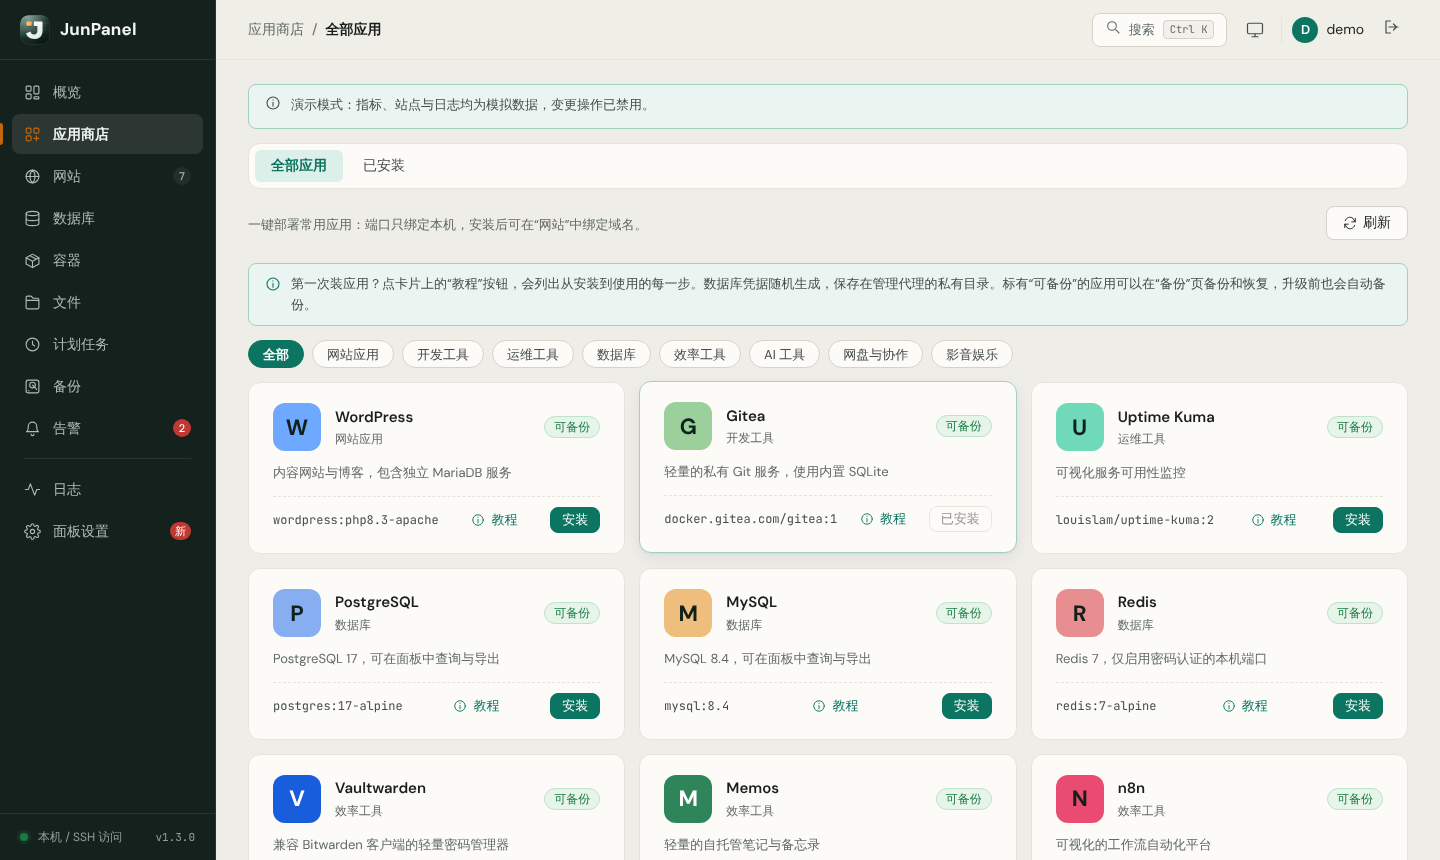
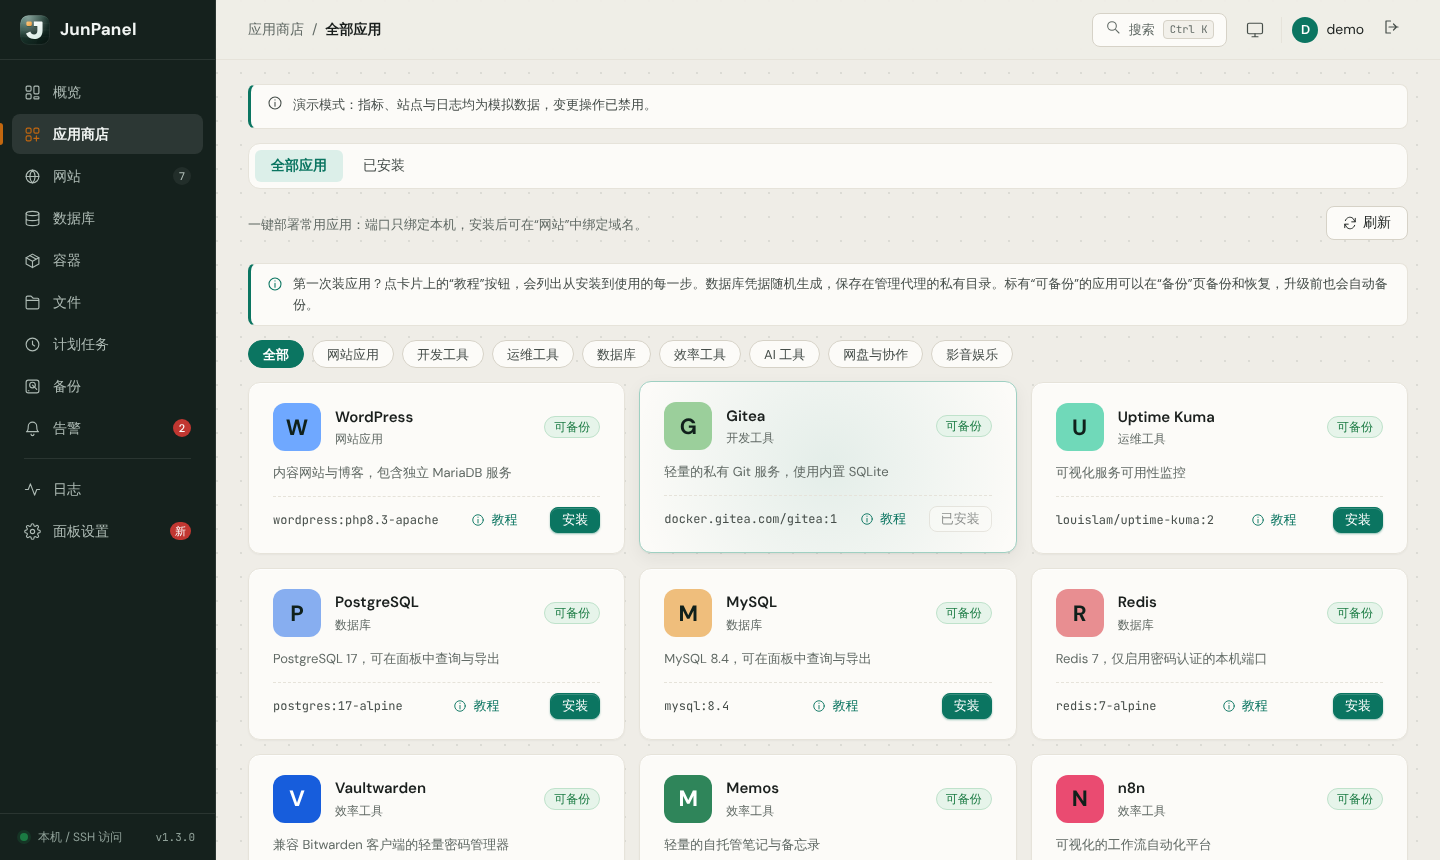
Panel design round 2: status band, hoverable charts, pointer light, editorial headings
Claude-Session: https://claude.ai/code/session_01TVKeKoCaGjGZwaa46WfNFp

Changed region(s): [[0.1875, 0.3023, 0.9688, 0.3628], [0.1875, 0.0907, 0.4688, 0.1512]]

diff --git a/web/app.js b/web/app.js
@@ -173,6 +173,8 @@ function applyTheme(mode = themeMode) {
 applyTheme();
 requestAnimationFrame(() => requestAnimationFrame(() => { document.documentElement.dataset.ready = '1'; }));
 systemDark.addEventListener('change', () => { if (themeMode === 'auto') applyTheme(); });
+// A soft light follows the pointer across cards (position only; the look is in the stylesheet).
+document.addEventListener('pointermove', e => { const t = e.target.closest?.('.panel, .app-card, .installed-card, .hero'); if (!t) return; const r = t.getBoundingClientRect(); t.style.setProperty('--mx', `${Math.round(e.clientX - r.left)}px`); t.style.setProperty('--my', `${Math.round(e.clientY - r.top)}px`); }, { passive: true });
 $('#theme-toggle').onclick = () => { const next = themeModes[(themeModes.indexOf(themeMode) + 1) % themeModes.length]; applyTheme(next); try { localStorage.setItem('junpanel-theme', next); } catch {} toast(`主题：${themeNames[next]}`); };
 $$('#nav [data-route]').forEach(b => b.onclick = () => navigate(b.dataset.route));
 window.addEventListener('hashchange', () => { const r = location.hash.slice(1).split('?')[0]; if (state.csrf && r !== state.route) navigate(r); });
@@ -189,7 +191,7 @@ function drawChrome() {
   $$('#nav .nav-link').forEach(n => { const active = n.dataset.group === group; n.classList.toggle('active', active); if (active) n.setAttribute('aria-current', 'page'); else n.removeAttribute('aria-current'); });
   const sub = $('#subnav'); sub.hidden = siblings.length < 2;
   sub.replaceChildren(...siblings.map(s => { const b = el('button', `subnav-item${s === state.route ? ' active' : ''}`, routes[s][0]); b.type = 'button'; b.onclick = () => navigate(s); return b; }));
-  $('#page-title').textContent = siblings.length > 1 ? '' : label; $('#page-title').hidden = siblings.length > 1;
+  $('#page-title').textContent = siblings.length > 1 ? '' : label; $('#page-title').hidden = siblings.length > 1; $('#page-eyebrow').textContent = siblings.length > 1 ? '' : state.route;
   $('#page-description').textContent = r[1]; $('#page-bar').hidden = state.route === 'overview';
 }
 const renderers = () => ({ overview: overviewPage, apps: appsPage, installed: appsPage, sites: sitesPage, certs: certsPage, databases: databasesPage, containers: containersPage, projects: projectsPage, images: imagesPage, networks: networksPage, volumes: volumesPage, terminal: terminalPage, files: filesPage, schedules: schedulesPage, backups: backupsPage, alerts: alertsPage, jobs: jobsPage, audit: auditPage, logins: loginsPage, syslog: syslogPage, security: securityPage, access: accessPage, upgrade: upgradePage });
@@ -215,29 +217,49 @@ function meter(value) { const p = el('progress','progress'); p.max = 100; p.valu
 const cssVar = name => getComputedStyle(document.documentElement).getPropertyValue(name).trim();
 // series: [[key, label, color variable]]; max = 100 for percentages, 0 to scale to the data (bytes/s).
 function chart(history, series, max = 100, withDate = false) {
-  const canvas = el('canvas','chart'); canvas.setAttribute('aria-label',series.map(s=>s[1]).join(' / ')); canvas.setAttribute('role','img');
+  const canvas = el('canvas', 'chart'); canvas.setAttribute('aria-label', series.map(s => s[1]).join(' / ') + '，可用左右方向键查看每个时间点'); canvas.setAttribute('role', 'img'); canvas.tabIndex = 0;
+  const left = 58, right = 14, top = 30, bottom = 28, H = 240; let hover = null, geo = null;
+  const when = (s, full) => new Date(s).toLocaleString('zh-CN', { hour12: false, ...(withDate || full ? { month: '2-digit', day: '2-digit' } : {}), hour: '2-digit', minute: '2-digit', ...(full && !withDate ? { second: '2-digit' } : {}) });
+  const value = v => max ? `${Number(v).toFixed(1)}%` : `${bytes(v)}/s`;
   canvas._draw = () => {
-    const rect = canvas.getBoundingClientRect(); if (!rect.width) return; const dpr = devicePixelRatio || 1, w = rect.width, h = 220, left = 58, right = 10, top = 28, bottom = 26;
-    canvas.width = w * dpr; canvas.height = h * dpr; const ctx = canvas.getContext('2d'); ctx.scale(dpr,dpr);
-    const muted = cssVar('--muted'), grid = cssVar('--line-soft'), font = getComputedStyle(document.body).fontFamily;
-    const all = series.flatMap(([k]) => history.map(p => Number(p[k] || 0))), peak = max || Math.max(1024, ...all) * 1.2;
+    const rect = canvas.getBoundingClientRect(); if (!rect.width) return; const dpr = devicePixelRatio || 1, w = rect.width, h = H;
+    canvas.width = w * dpr; canvas.height = h * dpr; const ctx = canvas.getContext('2d'); ctx.scale(dpr, dpr);
+    const muted = cssVar('--muted'), grid = cssVar('--line-soft'), font = getComputedStyle(document.body).fontFamily, mono = cssVar('--font-mono') || 'monospace';
+    const all = series.flatMap(([k]) => history.map(p => Number(p[k] || 0))), peak = max || Math.max(1024, ...all) * 1.2, n = history.length;
     ctx.font = `12px ${font}`; ctx.textBaseline = 'middle';
-    for (let i = 0; i <= 4; i++) { const y = top + (h - top - bottom) * i / 4; ctx.strokeStyle = grid; ctx.beginPath(); ctx.moveTo(left, y); ctx.lineTo(w - right, y); ctx.stroke(); ctx.fillStyle = muted; ctx.textAlign = 'right'; ctx.fillText(max ? `${Math.round(peak * (1 - i / 4))}%` : `${bytes(peak * (1 - i / 4))}/s`, left - 8, y); }
-    let lx = left; series.forEach(([, label, color]) => { ctx.fillStyle = cssVar(color); ctx.fillRect(lx, 8, 12, 3); ctx.fillStyle = muted; ctx.textAlign = 'left'; ctx.fillText(label, lx + 18, 10); lx += ctx.measureText(label).width + 40; });
-    if (history.length < 2) { ctx.textAlign = 'center'; ctx.fillText('等待更多采样…', (left + w) / 2, h / 2); return; }
-    const time = s => withDate ? new Date(s).toLocaleString('zh-CN', { hour12: false, month: '2-digit', day: '2-digit', hour: '2-digit', minute: '2-digit' }) : new Date(s).toLocaleTimeString('zh-CN', { hour12: false, hour: '2-digit', minute: '2-digit' });
-    ctx.fillStyle = muted; ctx.textAlign = 'left'; ctx.fillText(time(history[0].at), left, h - 10); ctx.textAlign = 'right'; ctx.fillText(time(history[history.length - 1].at), w - right, h - 10);
+    for (let i = 0; i <= 4; i++) { const y = top + (h - top - bottom) * i / 4; ctx.strokeStyle = grid; ctx.setLineDash(i && i < 4 ? [2, 4] : []); ctx.beginPath(); ctx.moveTo(left, y); ctx.lineTo(w - right, y); ctx.stroke(); ctx.setLineDash([]); ctx.fillStyle = muted; ctx.textAlign = 'right'; ctx.fillText(max ? `${Math.round(peak * (1 - i / 4))}%` : `${bytes(peak * (1 - i / 4))}/s`, left - 8, y); }
+    let lx = left; series.forEach(([, label, color]) => { ctx.fillStyle = cssVar(color); ctx.beginPath(); ctx.arc(lx + 4, 10, 4, 0, 7); ctx.fill(); ctx.fillStyle = muted; ctx.textAlign = 'left'; ctx.fillText(label, lx + 14, 10); lx += ctx.measureText(label).width + 38; });
+    geo = null; if (n < 2) { ctx.textAlign = 'center'; ctx.fillStyle = muted; ctx.fillText('等待更多采样…', (left + w - right) / 2, h / 2); return; }
+    const x = i => left + (w - left - right) * i / (n - 1), y = v => h - bottom - Math.min(peak, Number(v || 0)) / peak * (h - top - bottom);
+    ctx.fillStyle = muted; ctx.textAlign = 'left'; ctx.fillText(when(history[0].at), left, h - 10); ctx.textAlign = 'right'; ctx.fillText(when(history[n - 1].at), w - right, h - 10);
     series.forEach(([key, , colorVar]) => {
-      const color = cssVar(colorVar), points = history.map((p, i) => [left + (w - left - right) * i / (history.length - 1), h - bottom - Math.min(peak, Number(p[key] || 0)) / peak * (h - top - bottom)]);
-      ctx.beginPath(); points.forEach(([x, y], i) => i ? ctx.lineTo(x, y) : ctx.moveTo(x, y)); ctx.strokeStyle = color; ctx.lineWidth = 1.8; ctx.lineJoin = 'round'; ctx.stroke();
-      ctx.lineTo(w - right, h - bottom); ctx.lineTo(left, h - bottom); ctx.closePath(); const g = ctx.createLinearGradient(0, top, 0, h - bottom); g.addColorStop(0, color + '33'); g.addColorStop(1, color + '00'); ctx.fillStyle = g; ctx.fill();
+      const color = cssVar(colorVar), pts = history.map((p, i) => [x(i), y(p[key])]);
+      ctx.beginPath(); pts.forEach(([px, py], i) => i ? ctx.lineTo(px, py) : ctx.moveTo(px, py)); ctx.strokeStyle = color; ctx.lineWidth = 2; ctx.lineJoin = 'round'; ctx.lineCap = 'round'; ctx.stroke();
+      ctx.lineTo(w - right, h - bottom); ctx.lineTo(left, h - bottom); ctx.closePath(); const g = ctx.createLinearGradient(0, top, 0, h - bottom); g.addColorStop(0, color + '38'); g.addColorStop(1, color + '00'); ctx.fillStyle = g; ctx.fill();
     });
+    geo = { x, y, n };
+    if (hover == null || hover >= n) return;
+    const hx = x(hover), p = history[hover];
+    ctx.strokeStyle = muted; ctx.lineWidth = 1; ctx.setLineDash([3, 3]); ctx.beginPath(); ctx.moveTo(hx, top - 4); ctx.lineTo(hx, h - bottom); ctx.stroke(); ctx.setLineDash([]);
+    series.forEach(([key, , colorVar]) => { ctx.beginPath(); ctx.arc(hx, y(p[key]), 4.5, 0, 7); ctx.fillStyle = cssVar('--card'); ctx.fill(); ctx.lineWidth = 2; ctx.strokeStyle = cssVar(colorVar); ctx.stroke(); });
+    const rows = series.map(([key, label, colorVar]) => [label, value(p[key]), cssVar(colorVar)]), head = when(p.at, true);
+    ctx.font = `12px ${mono}`; const bw = Math.max(ctx.measureText(head).width, ...rows.map(r => ctx.measureText(`${r[0]}  ${r[1]}`).width + 16)) + 24, bh = 16 + 20 + rows.length * 20;
+    const bx = hx + 14 + bw > w - 4 ? hx - 14 - bw : hx + 14, by = top + 4;
+    ctx.fillStyle = cssVar('--card'); ctx.strokeStyle = cssVar('--line'); ctx.lineWidth = 1; ctx.beginPath(); ctx.roundRect(bx, by, bw, bh, 8); ctx.fill(); ctx.stroke();
+    ctx.textAlign = 'left'; ctx.fillStyle = muted; ctx.fillText(head, bx + 12, by + 18);
+    rows.forEach(([label, text, color], i) => { const ry = by + 18 + 20 * (i + 1); ctx.fillStyle = color; ctx.fillRect(bx + 12, ry - 4, 8, 8); ctx.fillStyle = cssVar('--text'); ctx.fillText(label, bx + 26, ry); ctx.textAlign = 'right'; ctx.fillText(text, bx + bw - 12, ry); ctx.textAlign = 'left'; });
   };
+  const at = e => { if (!geo) return; const r = canvas.getBoundingClientRect(), i = Math.round((e.clientX - r.left - left) / ((r.width - left - right) / (geo.n - 1))); hover = Math.max(0, Math.min(geo.n - 1, i)); canvas._draw(); };
+  canvas.addEventListener('pointermove', at); canvas.addEventListener('pointerdown', at);
+  canvas.addEventListener('pointerleave', () => { hover = null; canvas._draw(); });
+  canvas.addEventListener('blur', () => { hover = null; canvas._draw(); });
+  canvas.addEventListener('keydown', e => { if (!geo || !['ArrowLeft', 'ArrowRight', 'Home', 'End', 'Escape'].includes(e.key)) return; e.preventDefault(); hover = e.key === 'Escape' ? null : e.key === 'Home' ? 0 : e.key === 'End' ? geo.n - 1 : Math.max(0, Math.min(geo.n - 1, (hover ?? geo.n - 1) + (e.key === 'ArrowLeft' ? -1 : 1))); canvas._draw(); });
   const observer = new ResizeObserver(() => { if (!canvas.isConnected) { observer.disconnect(); return; } canvas._draw(); }); observer.observe(canvas); return canvas;
 }
-function gauge(title, value, text, sub) {
+function gauge(title, value, text, sub, sweep = false) {
   const pct = Math.max(0, Math.min(100, Number(value) || 0)), n = el('div','gauge'), ring = el('div', `gauge-ring${pct >= 90 ? ' bad' : pct >= 75 ? ' warn' : ''}`), r = 46, c = 2 * Math.PI * r;
-  ring.innerHTML = `<svg viewBox="0 0 112 112" aria-hidden="true"><circle class="track" cx="56" cy="56" r="${r}"/><circle class="value" cx="56" cy="56" r="${r}" stroke-dasharray="${c.toFixed(1)}" stroke-dashoffset="${(c * (1 - pct / 100)).toFixed(1)}"/></svg>`;
+  ring.innerHTML = `<svg viewBox="0 0 112 112" aria-hidden="true"><circle class="track" cx="56" cy="56" r="${r}"/><circle class="value" cx="56" cy="56" r="${r}" stroke-dasharray="${c.toFixed(1)}" stroke-dashoffset="${(sweep ? c : c * (1 - pct / 100)).toFixed(1)}"/></svg>`;
+  if (sweep) requestAnimationFrame(() => requestAnimationFrame(() => ring.querySelector(".value").style.strokeDashoffset = (c * (1 - pct / 100)).toFixed(1)));
   const t = el('div','gauge-text'); t.append(el('strong','',text)); ring.append(t); n.append(ring, el('span','',title), el('small','',sub)); return n;
 }
 function loadText(p) { return p < 50 ? '运行流畅' : p < 75 ? '运行正常' : p < 90 ? '运行缓慢' : '运行堵塞'; }
@@ -266,8 +288,17 @@ function inventorySites(data) {
   return [...(data.sites || []), ...(data.external_hosts || []).map(host=>({name:host,domains:[host],kind:'existing',readonly:true,sources:(data.caddy_sources || []).filter(source=>(source.hosts || []).includes(host)).map(source=>source.config)}))];
 }
 function accessLabel() { return location.protocol==='https:'?'HTTPS 加密访问':'本机 / SSH 访问'; }
+// Numbers on the overview count up once when the page opens; never for people who ask for less motion.
+const reduceMotion = matchMedia('(prefers-reduced-motion: reduce)');
+function countUp(node, text) {
+  if (reduceMotion.matches || !/\d/.test(text)) return;
+  const parts = text.split(/(\d+)/), nums = parts.map(p => /^\d+$/.test(p) ? Number(p) : null), t0 = performance.now(), dur = 700;
+  const show = k => { node.textContent = parts.map((p, i) => nums[i] == null ? p : Math.round(nums[i] * k)).join(''); };
+  const frame = now => { const k = Math.min(1, (now - t0) / dur); show(1 - Math.pow(1 - k, 3)); if (k < 1) requestAnimationFrame(frame); };
+  show(0); requestAnimationFrame(frame);
+}
 async function overviewPage() {
-  const data = await api('/overview'), n = el('div'); let choice = 0, range = 'live', past = null, pastAt = 0;
+  const data = await api('/overview'), n = el('div'); let choice = 0, range = 'live', past = null, pastAt = 0, firstPaint = true;
   const ranges = [['live', '实时'], ['1h', '1 小时'], ['6h', '6 小时'], ['24h', '24 小时'], ['7d', '7 天']];
   async function loadPast() { if (range === 'live') return; const want = range; try { const r = await api(`/history?range=${want}`); if (range === want) { past = r; pastAt = Date.now(); drawMonitor && drawMonitor(); } } catch (e) { toast(e.message, true); } }
   let drawMonitor = null;
@@ -280,14 +311,17 @@ async function overviewPage() {
     if (d.update_available) { const b = note(`JunPanel v${d.update_available} 已发布，当前版本 v${d.version}。`); b.append(button('查看并升级', () => navigate('upgrade'), 'quiet small')); n.append(b); }
     const grid = el('div','home-grid'), main = el('div','home-col'), side = el('div','home-col');
 
-    const counts = panel('概览'), cg = el('div','count-grid');
+    const calm = !(d.alerts_active > 0), counts = el('div', 'hero-wrap'), hero = el('section', 'hero'), heroHead = el('div', 'hero-head'), heroText = el('div'), cg = el('div', 'count-grid');
+    heroText.append(el('strong', '', calm ? '一切运行正常' : `${d.alerts_active} 条告警待处理`), el('small', '', `${h.hostname || '本机'} · 已运行 ${uptime(h.uptime)}`));
+    heroHead.append(el('span', `lamp ${calm ? 'ok' : 'warn'}`), heroText);
     [['网站', d.sites_error || d.caddy_error ? '—' : visibleSites.length, 'sites'], ['已安装应用', d.apps_error ? '—' : (d.apps || []).filter(a => !a.removed).length, 'installed'], ['容器', d.docker_error ? '—' : `${running} / ${containers.length}`, 'containers'], ['告警', d.alerts_active || 0, 'alerts']].forEach(([label, value, route]) => {
-      const b = el('button', `count-item${route === 'alerts' && d.alerts_active ? ' alarm' : ''}`); b.type = 'button'; b.append(el('span','',label), el('strong','',String(value))); b.onclick = () => navigate(route); cg.append(b);
+      const b = el('button', `count-item${route === 'alerts' && d.alerts_active ? ' alarm' : ''}`), num = el('strong', '', String(value)); b.type = 'button'; b.append(el('span', '', label), num); b.onclick = () => navigate(route); cg.append(b);
+      if (firstPaint) countUp(num, String(value));
     });
-    counts.append(cg);
+    hero.append(heroHead, cg); counts.append(hero);
 
     const status = panel('状态'), gg = el('div','gauge-grid'), cores = h.cores || 1, load = (h.load || [])[0] || 0, loadPct = load / cores * 100, mem = h.mem_total ? h.mem_used / h.mem_total * 100 : 0, used = disk.total ? disk.used / disk.total * 100 : 0;
-    gg.append(gauge('负载', loadPct, `${Math.round(Math.min(loadPct, 100))}%`, loadText(loadPct)), gauge('CPU', h.cpu, h.cpu == null ? '—' : `${Number(h.cpu).toFixed(1)}%`, `${cores} 核`), gauge('内存', mem, `${mem.toFixed(1)}%`, `${bytes(h.mem_used)} / ${bytes(h.mem_total)}`), gauge('磁盘 /', used, `${used.toFixed(1)}%`, `${bytes(disk.used)} / ${bytes(disk.total)}`));
+    gg.append(gauge('负载', loadPct, `${Math.round(Math.min(loadPct, 100))}%`, loadText(loadPct), firstPaint), gauge('CPU', h.cpu, h.cpu == null ? '—' : `${Number(h.cpu).toFixed(1)}%`, `${cores} 核`, firstPaint), gauge('内存', mem, `${mem.toFixed(1)}%`, `${bytes(h.mem_used)} / ${bytes(h.mem_total)}`, firstPaint), gauge('磁盘 /', used, `${used.toFixed(1)}%`, `${bytes(disk.used)} / ${bytes(disk.total)}`, firstPaint));
     status.append(gg);
 
     const choices = [['CPU', [['cpu','CPU','--primary']], 100], ['内存', [['memory','内存','--success']], 100], ['流量', [['rx','下行','--primary'], ['tx','上行','--warning']], 0]];
@@ -322,7 +356,7 @@ async function overviewPage() {
     side.append(info, services, sites, activity);
     grid.append(main, side); n.append(grid);
   }
-  paint(data);
+  paint(data); firstPaint = false;
   const epoch = state.epoch; interval(async () => { const d = await api('/overview'); if (epoch === state.epoch) { paint(d); $('#connection-error').hidden = true; } }, 10000); return n;
 }
 async function sitesPage() {

diff --git a/web/style.css b/web/style.css
@@ -20,7 +20,8 @@
   --danger: #c13731; --danger-soft: #fceceb; --danger-line: #f0bcb9; --on-danger: #fff;
   --info-soft: #f0eee8; --info-line: #e1ded4;
   --side-text: #aebbb5; --side-strong: #f1f5f3; --side-hover: rgba(255, 255, 255, .06); --side-active: rgba(255, 255, 255, .1); --side-line: rgba(255, 255, 255, .09); --side-muted: #8fa098;
-  --tick: rgba(26, 31, 29, .22);
+  --tick: rgba(26, 31, 29, .22); --dot: rgba(26, 31, 29, .09); --edge: rgba(255, 255, 255, .75);
+  --hero-bg: #15211d; --hero-text: #f1f5f3; --hero-muted: #a9b9b2; --hero-line: rgba(255, 255, 255, .11); --hero-glow: #3fcfaa; --hero-warn: #f0a144;
   --log-bg: #17201d; --log-text: #dfe7e3;
   --shadow: 0 1px 2px rgba(26, 31, 29, .05), 0 6px 18px rgba(26, 31, 29, .06); --shadow-pop: 0 12px 40px rgba(14, 24, 20, .22);
   --radius: 8px; --radius-card: 12px; --sidebar-width: 216px;
@@ -42,7 +43,8 @@
   --danger: #ff7a73; --danger-soft: rgba(255, 122, 115, .12); --danger-line: rgba(255, 122, 115, .3); --on-danger: #2a0907;
   --info-soft: rgba(255, 255, 255, .05); --info-line: rgba(255, 255, 255, .09);
   --side-text: #9fada7; --side-strong: #eef3f0; --side-hover: rgba(255, 255, 255, .05); --side-active: rgba(63, 207, 170, .12); --side-line: rgba(255, 255, 255, .07); --side-muted: #8a9a93;
-  --tick: rgba(231, 236, 233, .28);
+  --tick: rgba(231, 236, 233, .28); --dot: rgba(255, 255, 255, .055); --edge: rgba(255, 255, 255, .04);
+  --hero-bg: #0d1e19; --hero-line: rgba(63, 207, 170, .2);
   --log-bg: #0a0e0c; --shadow: 0 1px 2px rgba(0, 0, 0, .3), 0 6px 18px rgba(0, 0, 0, .28); --shadow-pop: 0 12px 40px rgba(0, 0, 0, .6);
   color-scheme: dark;
 }
@@ -504,3 +506,59 @@ dl.details dd { margin: 0; }
 .button:not(.primary):not(.danger)[aria-busy="true"]::after { border-color: var(--primary); border-right-color: transparent; }
 /* No colour transitions while the first theme is being applied (they would replay on every load). */
 html:not([data-ready]) *, html:not([data-ready]) *::before, html:not([data-ready]) *::after { transition: none !important; }
+
+/* ---- Round 5: status band, spotlight, texture, editorial headings ---- */
+.main-shell { background: radial-gradient(circle at 1px 1px, var(--dot) 1px, transparent 1.3px) 0 0 / 24px 24px; }
+.panel, .table-wrap, .app-card, .installed-card { box-shadow: inset 0 1px 0 var(--edge), 0 1px 2px rgba(26, 31, 29, .04); }
+.page-eyebrow { display: block; margin-bottom: 6px; font-family: var(--font-mono); font-size: 11px; font-weight: 500; letter-spacing: .16em; text-transform: uppercase; color: var(--warning); }
+.page-eyebrow:empty { display: none; }
+.page-bar h1 { font-size: 28px; line-height: 1.15; letter-spacing: -.02em; }
+.button.primary { box-shadow: inset 0 1px 0 rgba(255, 255, 255, .18), 0 1px 2px color-mix(in srgb, var(--primary) 45%, transparent); }
+.button.primary:active:not(:disabled) { box-shadow: inset 0 1px 2px rgba(0, 0, 0, .25); }
+.data-table tbody tr:hover td:first-child { box-shadow: inset 3px 0 0 var(--primary); }
+
+.hero-wrap { container-type: inline-size; margin-bottom: 16px; }
+.hero { position: relative; isolation: isolate; display: grid; grid-template-columns: minmax(0, 1fr); align-items: center; gap: 28px; margin: 0; padding: 30px 36px 46px; border: 1px solid var(--hero-line); border-radius: var(--radius-card); background: var(--hero-bg); color: var(--hero-text); overflow: hidden; }
+.hero::after { content: ""; position: absolute; left: 36px; right: 36px; bottom: 16px; height: 11px; background: repeating-linear-gradient(90deg, rgba(255, 255, 255, .34) 0 1px, transparent 1px 40px) 0 100% / 100% 11px no-repeat, repeating-linear-gradient(90deg, rgba(255, 255, 255, .16) 0 1px, transparent 1px 8px) 0 100% / 100% 5px no-repeat; pointer-events: none; }
+.hero-head { display: flex; align-items: center; gap: 16px; min-width: 0; }
+.hero-head strong { display: block; font-size: 26px; font-weight: 600; line-height: 1.2; letter-spacing: -.015em; }
+.hero-head small { display: block; margin-top: 6px; color: var(--hero-muted); font-size: 13px; }
+.lamp { flex: none; width: 14px; height: 14px; border-radius: 50%; background: var(--hero-glow); box-shadow: 0 0 0 5px color-mix(in srgb, var(--hero-glow) 22%, transparent), 0 0 18px color-mix(in srgb, var(--hero-glow) 70%, transparent); animation: jp-lamp-hero 3.2s ease-in-out infinite; }
+.lamp.warn { background: var(--hero-warn); box-shadow: 0 0 0 5px color-mix(in srgb, var(--hero-warn) 24%, transparent), 0 0 18px color-mix(in srgb, var(--hero-warn) 70%, transparent); animation-duration: 1.6s; }
+@keyframes jp-lamp-hero { 50% { opacity: .55; } }
+.hero .count-grid { grid-template-columns: repeat(4, minmax(0, 1fr)); gap: 0; }
+@container (min-width: 980px) { .hero { grid-template-columns: minmax(240px, 1fr) minmax(0, 2.2fr); gap: 24px 40px; } }
+.hero .count-item { align-items: flex-start; gap: 8px; padding: 2px 0 2px 24px; border-right: 0; border-left: 1px solid var(--hero-line); text-align: left; color: var(--hero-text); }
+.hero .count-item:first-child { border-left-color: var(--hero-line); }
+.hero .count-item span { color: var(--hero-muted); font-size: 12px; letter-spacing: .08em; }
+.hero .count-item strong { font-size: 58px; color: var(--hero-text); }
+.hero .count-item:hover strong { color: var(--hero-glow); text-decoration: none; }
+.hero .count-item.alarm strong { color: var(--hero-warn); }
+.hero .count-item:focus-visible { outline-color: var(--hero-glow); }
+
+@media (hover: hover) {
+  .panel, .app-card, .installed-card { position: relative; isolation: isolate; }
+  .panel::before, .app-card::before, .installed-card::before, .hero::before { content: ""; position: absolute; inset: 0; z-index: -1; border-radius: inherit; pointer-events: none; opacity: 0; transition: opacity .3s; background: radial-gradient(280px circle at var(--mx, 50%) var(--my, 50%), color-mix(in srgb, var(--primary) 10%, transparent), transparent 70%); }
+  .hero::before { background: radial-gradient(320px circle at var(--mx, 50%) var(--my, 50%), rgba(255, 255, 255, .09), transparent 70%); }
+  .panel:hover::before, .app-card:hover::before, .installed-card:hover::before, .hero:hover::before { opacity: 1; }
+}
+.login-brand::before { animation: jp-turn 180s linear infinite; }
+@keyframes jp-turn { to { transform: rotate(360deg); } }
+.chart { cursor: crosshair; touch-action: pan-y; }
+.chart:focus-visible { outline-offset: 4px; }
+@media (max-width: 900px) {
+  .hero { padding: 24px 22px 42px; gap: 22px; }
+  .hero::after { left: 22px; right: 22px; }
+  .hero .count-grid { grid-template-columns: repeat(2, minmax(0, 1fr)); row-gap: 20px; }
+  .hero .count-item { padding-left: 16px; }
+  .hero .count-item strong { font-size: 46px; }
+  main { padding: 16px 12px; }
+  .page-bar h1 { font-size: 24px; }
+}
+.info, .banner { border-color: var(--line-soft); border-left: 3px solid var(--primary); background: var(--card); }
+.info.warning { border-left-color: var(--accent); background: var(--card); }
+.banner.danger { border-left-color: var(--danger); background: var(--card); color: var(--danger); }
+.info > .icon, .banner > .icon { color: var(--primary); }
+.info.warning > .icon { color: var(--warning); }
+.panel > .info, .modal-content .info { background: var(--primary-softer); }
+.panel > .info.warning, .modal-content .info.warning { background: var(--warning-soft); }

diff --git a/web/index.html b/web/index.html
@@ -64,7 +64,7 @@
         <div id="demo-banner" class="banner" hidden><span data-icon="info"></span>演示模式：指标、站点与日志均为模拟数据，变更操作已禁用。</div>
         <div id="connection-error" class="banner danger" hidden></div>
         <div id="subnav" class="subnav" hidden></div>
-        <div id="page-bar" class="page-bar"><div><h1 id="page-title"></h1><p id="page-description"></p></div><div id="page-actions" class="page-actions"></div></div>
+        <div id="page-bar" class="page-bar"><div><small id="page-eyebrow" class="page-eyebrow" aria-hidden="true"></small><h1 id="page-title"></h1><p id="page-description"></p></div><div id="page-actions" class="page-actions"></div></div>
         <div id="view" class="view"></div>
         <footer><span>JunPanel <span id="footer-version"></span></span><span id="footer-status"><span class="status-dot"></span> 连接中</span></footer>
       </main>
